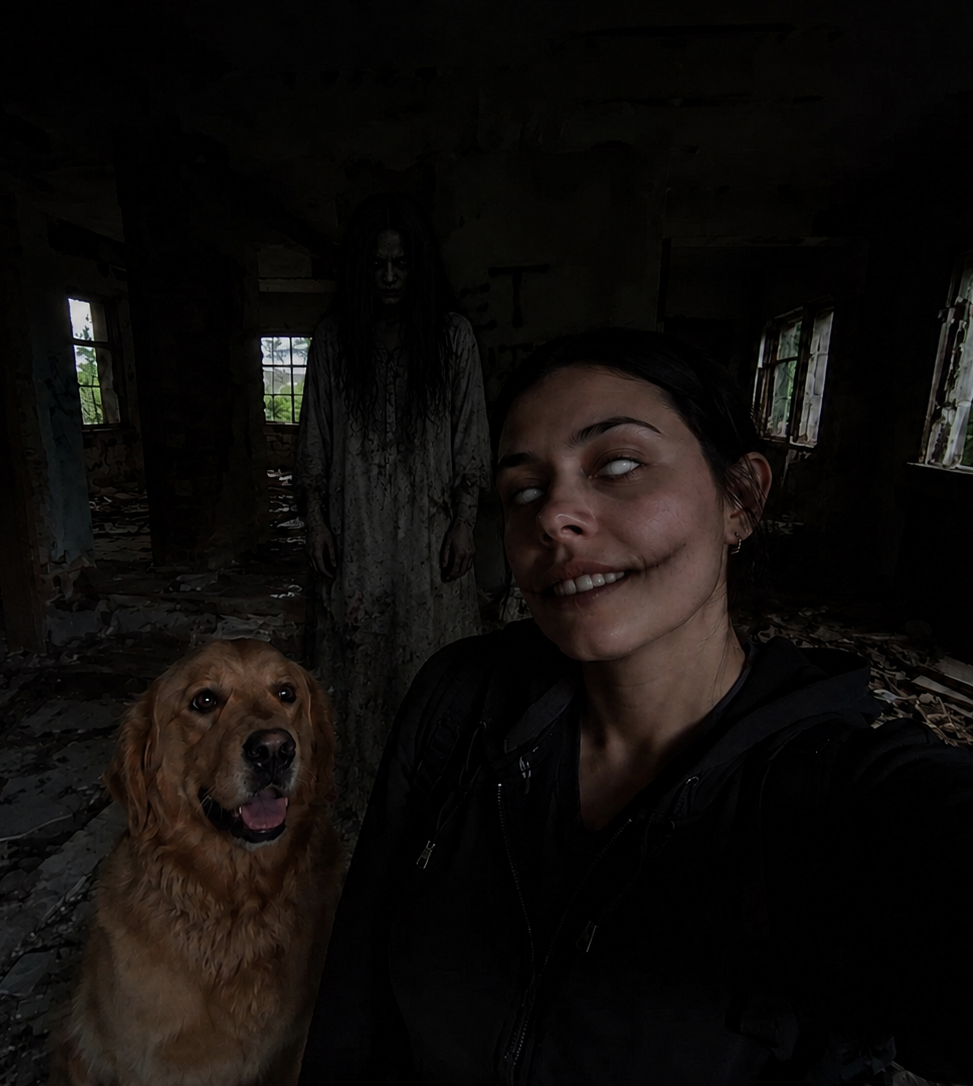
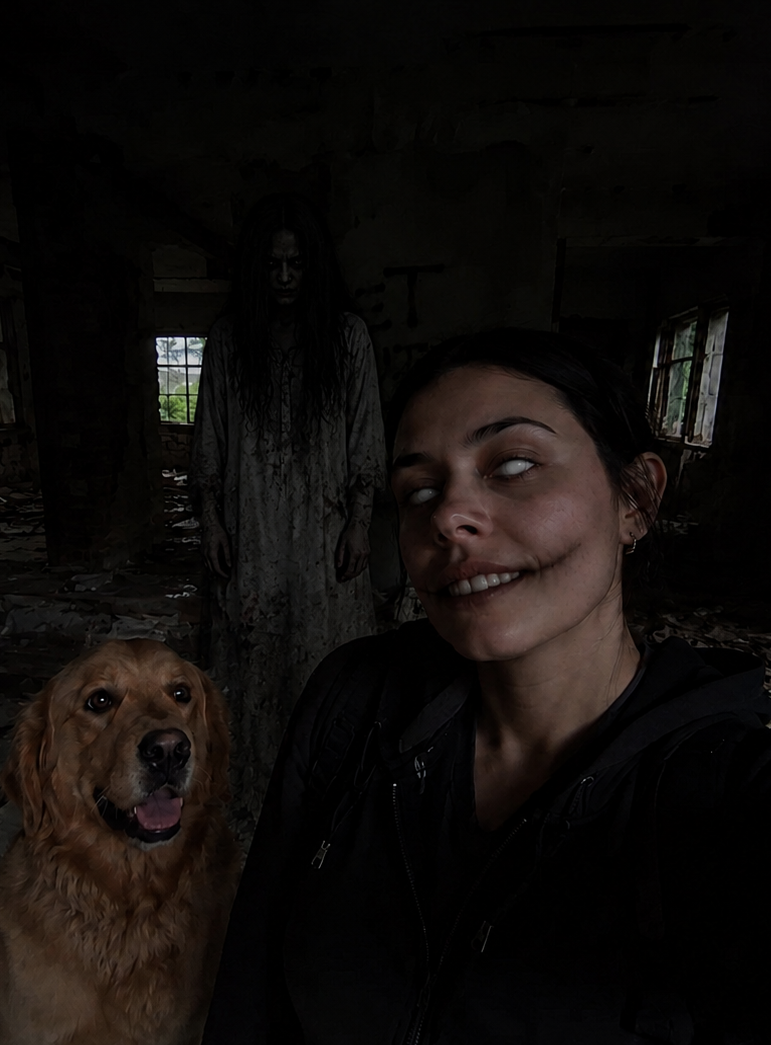
update all texts and layout death

diff --git a/app/page.tsx b/app/page.tsx
@@ -308,11 +308,13 @@ function Intro({ onStart, day }: { onStart: () => void; day: number }) {
   const [step, setStep] = useState(0);
 
   const texts = [
+    "...",
     "Parabens Você sobreviveu.",
     "Ninguém chegou tão longe.",
     "Eles estao felizes por voce.",
-    "por voce ter se comportado bem",
+    "Voce se comportou muito bem",
     "eles estao te esperando...",
+    "",
     "para receber sua recompensa :)"
   ];
 
@@ -580,18 +582,49 @@ function Verdict({
 }
 
 function WonView({ onReset }: { onReset: () => void }) {
+  const [step, setStep] = useState(0);
+
+  const texts = [
+    "Você conseguiu.",
+    "Nove dias procurando anomalias.",
+    "As notificações finalmente pararam.",
+    "Os perfis nunca mais apareceram.",
+    "Mas algumas perguntas continuam sem resposta.",
+    "Talvez seja melhor não descobrir.",
+    "isso e um Adeus?",
+    "..."
+  ];
+
+  useEffect(() => {
+    if (step < texts.length - 1) {
+      const timer = setTimeout(() => {
+        setStep((s) => s + 1);
+      }, 2500);
+
+      return () => clearTimeout(timer);
+    }
+  }, [step]);
+
   return (
-    <div>
-      <Flame className="size-10 text-primary" />
-      <h2 className="text-3xl font-black">Você sobreviveu aos 9 dias.</h2>
-      <p className="text-sm text-muted-foreground">
-        Você desinstalou o Tindeath. Pela primeira vez em semanas, dormiu sem
-        sonhar com rostos trocados. Ainda assim, às vezes, o celular vibra
-        sozinho.
-      </p>
-      <Button onClick={onReset} size="lg" className="w-full">
-        Recomeçar
-      </Button>
-   </div>
+    <Card className="p-8 bg-black border-0 text-center">
+      <div className="min-w-[300px] min-h-[250px] flex items-center justify-center">
+        <p
+          key={step}
+          className="text-lg text-red-100 animate-in fade-in duration-1000"
+        >
+          {texts[step]}
+        </p>
+      </div>
+
+      {step === texts.length - 1 && (
+        <Button
+          onClick={onReset}
+          size="lg"
+          className="w-full"
+        >
+          Recomeçar
+        </Button>
+      )}
+    </Card>
   );
 }

diff --git a/app/profiles.ts b/app/profiles.ts
@@ -96,18 +96,18 @@ export const FINAL_DAY_PROFILES: Profile[] = [
     "/anomalies/mulher3.png",
     "/anomalies/mulher3.png",
   ],
-  bio: "Isso de fato uma anomalia no sistema reporte! | voce entendeu o jogo?"
+  bio: "Isso e uma anomalia em nosso sistema reporte! | voce entendeu o jogo?"
 },
   {
     id: "f2",
-    name: "VOCE",
+    name: "VOCÊ",
     age: 10,
     photos: [
       "/anomalies/felipe1.png",
       "/anomalies/felipe1.png",
       "/anomalies/felipe1.png"
     ],
-    bio: "Quem é você? o perfil que voce ignorou? | a anamolia despercebida?"
+    bio: "Qual a resposta O perfil ignororado? | a anamolia despercebida?"
   },  
    {
     id: "f3",
@@ -118,16 +118,16 @@ export const FINAL_DAY_PROFILES: Profile[] = [
       "/anomalies/juliana3.png",
       "/anomalies/juliana3.png"
     ],
-    bio: "Nós estávamos observando."
+    bio: "Nós estávamos observando pq voce esse tempo todo pq me ignora.<<@&*>posso ser amigo?"
   },  
     {
     id: "f4",
     name: "CONTINUE",
     age: 10,
     photos: [
-      "/anomalies/lucas4.png",
-      "/anomalies/lucas4.png",
-      "/anomalies/lucas4.png"
+      "/anomalies/camila1.png",
+      "/anomalies/camila1.png",
+      "/anomalies/camila1.png"
     ],
     bio: "Nao olhe para tras"
   },  
@@ -136,15 +136,15 @@ export const FINAL_DAY_PROFILES: Profile[] = [
     name: "Continue",
     age: 10,
     photos: [
-      "/anomalies/lucas4.png",
-      "/anomalies/lucas4.png",
-      "/anomalies/lucas4.png"
+      "/anomalies/beatriz1.png",
+      "/anomalies/beatriz1.png",
+      "/anomalies/beatriz1.png"
     ],
     bio: "deslize um pouco mais. !Não existem mais perfis para analisar"
   },  
    {
     id: "f6",
-    name: "Quem E VOCE?",
+    name: "Quem sou eu?",
     age: 10,
     photos: [
       "/anomalies/lucas3.png",
@@ -155,7 +155,7 @@ export const FINAL_DAY_PROFILES: Profile[] = [
   }, 
    {
     id: "f7",
-    name: "Quem E VOCE? Continue...",
+    name: "Quem sou eu? Continue...",
     age: 10,
     photos: [
       "/anomalies/lucas3.png",